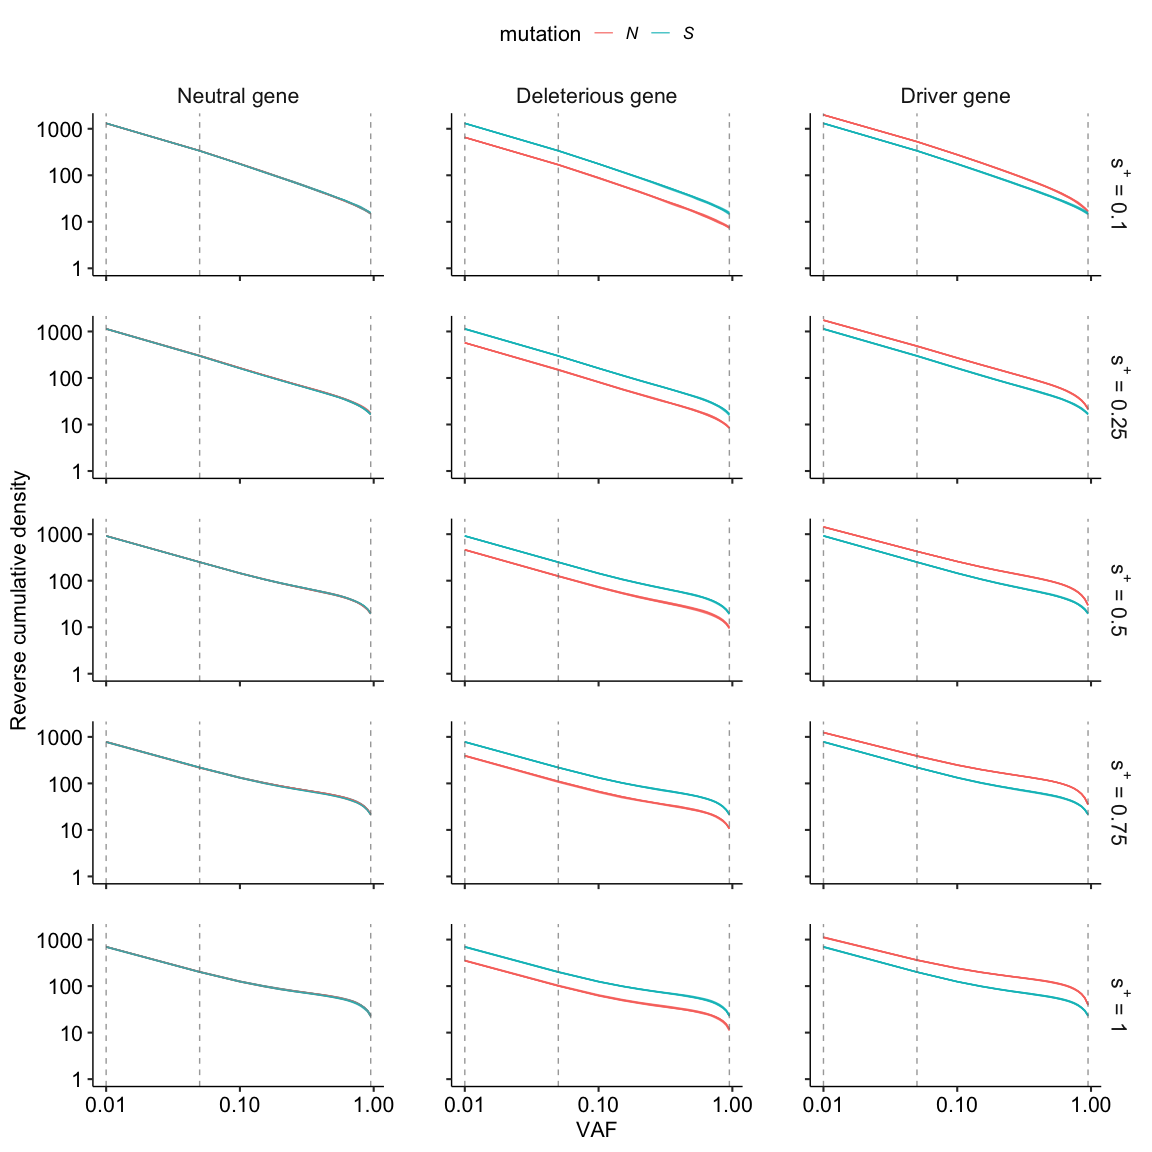
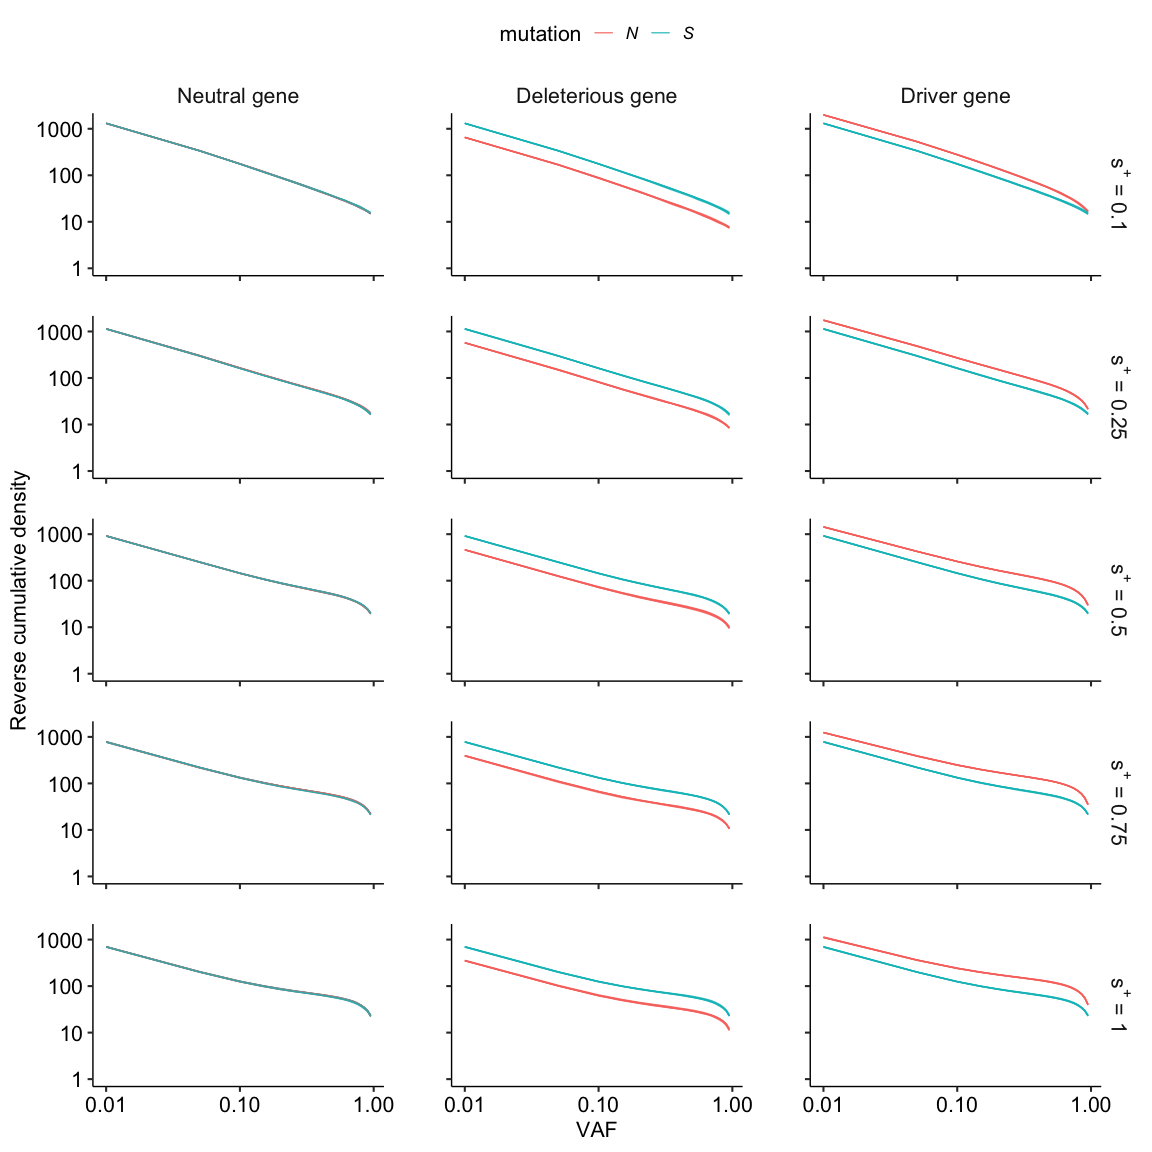
Remove thresholds from distribution plots

diff --git a/reports/Reproducible_report.md b/reports/Reproducible_report.md
@@ -159,9 +159,9 @@ single_dist_plot <- function(dt, threshold=0.01){
       coord_cartesian( ylim=c(1,1500))+
       scale_y_log10() +
     scale_x_log10() +
-      geom_vline(xintercept = 0.01, lty="dashed", color="gray50", alpha=0.7) +
-      geom_vline(xintercept = 0.05, lty="dashed", color="gray50", alpha=0.7) +
-      geom_vline(xintercept = 0.95, lty="dashed", color="gray50", alpha=0.7) +
+      #geom_vline(xintercept = 0.01, lty="dashed", color="gray50", alpha=0.7) +
+      #geom_vline(xintercept = 0.05, lty="dashed", color="gray50", alpha=0.7) +
+      #geom_vline(xintercept = 0.95, lty="dashed", color="gray50", alpha=0.7) +
       lemon::facet_rep_grid(s_pos_exp ~ gene_exp, labeller = labeller(s_pos_exp=label_parsed), scales='free')+
       #ggpubr::theme_pubr(base_size = 14) +
      # geom_text(aes(x=0.5,y=Inf, label=paste(s_pos," ",s_neg, "   gene:",gene)), vjust=1) +
@@ -255,7 +255,7 @@ dnds_table <- dnds_list %>% lapply('[[',2) %>% rbindlist()
 ``` r
 t_pNpS_s <- dnds_table %>%
   data.table::melt(id.vars = c("s","t"), measure = patterns("^ns_"), variable.name="mutations", value.name="pN_pS") 
-setattr(t_pNpS_s[["mutations"]],"levels",c("dN/dS0.001", "dN/dS0.05", "dN/dSCLONAL"))
+setattr(t_pNpS_s[["mutations"]],"levels",c("dN/dS0.01", "dN/dS0.05", "dN/dSCLONAL"))
 ```
 
 ``` r
@@ -283,9 +283,9 @@ vaf_table[order(s, type, t, -q), cumdist := cumsum(count), by=c("s","type", "t")
     coord_cartesian( ylim=c(0.1,5000))+
     scale_y_log10(labels = function(x) sprintf("%g", x)) +
     scale_x_log10() +
-    geom_vline(xintercept = 0.01, lty="dashed", color="gray50", alpha=0.7) +
-    geom_vline(xintercept = 0.05, lty="dashed", color="gray50", alpha=0.7) +
-    geom_vline(xintercept = 0.95, lty="dashed", color="gray50", alpha=0.7) +
+    #geom_vline(xintercept = 0.01, lty="dashed", color="gray50", alpha=0.7) +
+    #geom_vline(xintercept = 0.05, lty="dashed", color="gray50", alpha=0.7) +
+    #geom_vline(xintercept = 0.95, lty="dashed", color="gray50", alpha=0.7) +
     lemon::facet_rep_grid(s ~ t, labeller = label_bquote(cols= 10^.(t)~ "cells", rows = "s = "*.(s)), scales='free')+
     ggpubr::theme_pubr(base_size = 16) +
     theme(legend.text = element_text(face = "italic")) +
@@ -319,8 +319,8 @@ t_levels <- c("10^2 cells","10^3 cells","10^4 cells","10^5 cells")
   NULL
   }
 
- p1 <- t_pNpS_s[s>0 & mutations=="dN/dS0.001",.(mean=mean(pN_pS, na.rm = T),se=2*sd(pN_pS, na.rm = T)/sqrt(.N)),by=c("s","t","mutations")] %>% 
-   t_plot_ind(tit=TeX('A. $\\textit{dN/dS}_{0.001}$'))
+ p1 <- t_pNpS_s[s>0 & mutations=="dN/dS0.01",.(mean=mean(pN_pS, na.rm = T),se=2*sd(pN_pS, na.rm = T)/sqrt(.N)),by=c("s","t","mutations")] %>% 
+   t_plot_ind(tit=TeX('A. $\\textit{dN/dS}_{0.01}$'))
   p2 <- t_pNpS_s[s>0 & mutations=="dN/dS0.05",.(mean=mean(pN_pS, na.rm = T),se=2*sd(pN_pS, na.rm = T)/sqrt(.N)),by=c("s","t","mutations")] %>% 
    t_plot_ind(tit=TeX('B. $\\textit{dN/dS}_{0.05}$'))
    p3 <- t_pNpS_s[s>0 & mutations=="dN/dSCLONAL",.(mean=mean(pN_pS, na.rm = T),se=2*sd(pN_pS, na.rm = T)/sqrt(.N)),by=c("s","t","mutations")] %>% 
